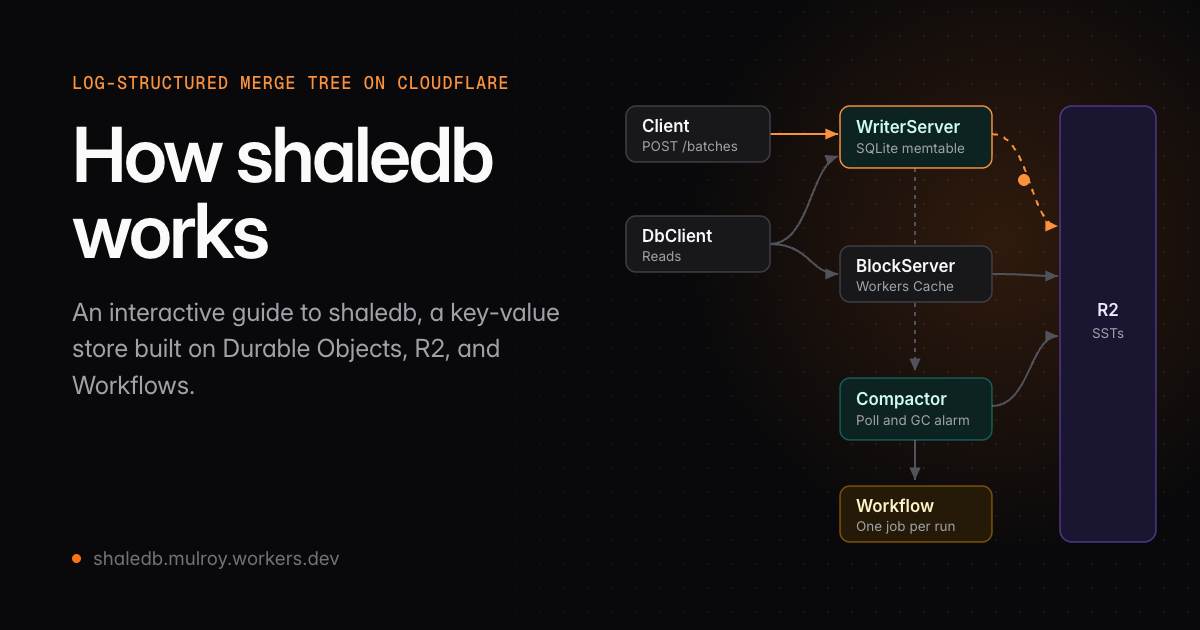
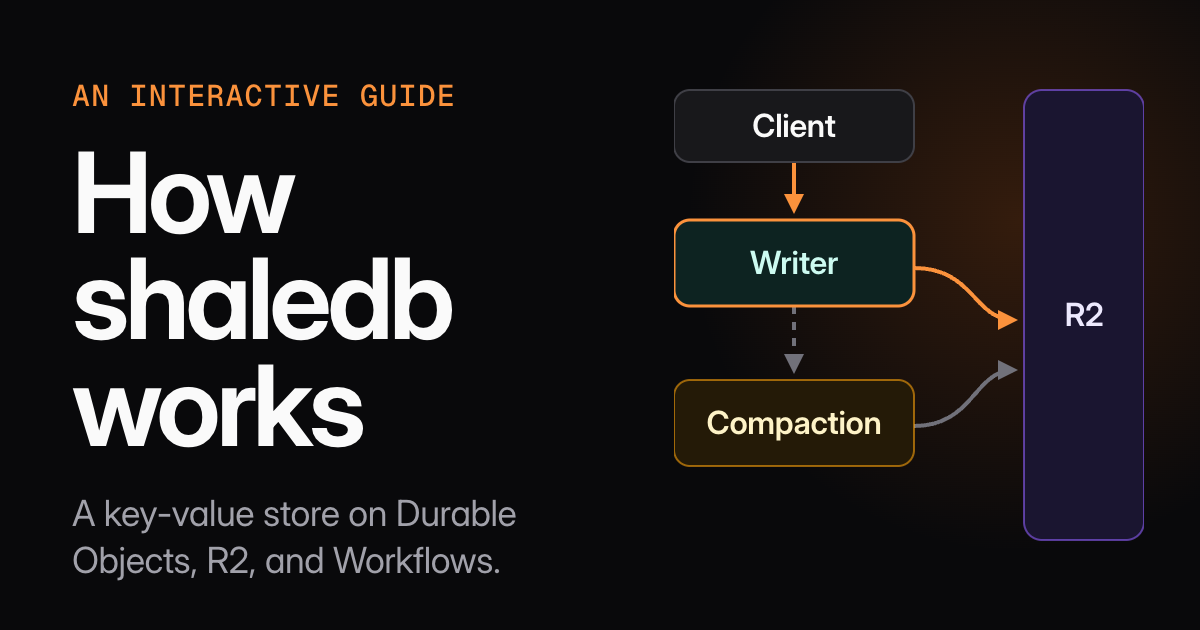
docs(site): OG image readable in phone link previews
Larger type (30px minimum, 112px title) and a four-box diagram, so the card reads at
about 350px wide.

diff --git a/infra/docs-site/og-card.html b/infra/docs-site/og-card.html
@@ -1,5 +1,9 @@
 <!doctype html>
-<!-- Source of public/og.png (1200x630). Rerender with: node render-og.mjs -->
+<!--
+  Source of public/og.png (1200x630). Rerender with: npx -y -p puppeteer@24 node render-og.mjs
+  Link previews on phones show this image about 350px wide, under a third of its size, so the
+  smallest text here is 30px (about 9px on a phone) and the diagram has only four boxes.
+-->
 <html lang="en">
   <head>
     <meta charset="utf-8" />
@@ -27,206 +31,142 @@
         position: relative;
         overflow: hidden;
       }
-      .grid {
-        position: absolute;
-        inset: 0;
-        background-image: radial-gradient(rgba(255, 255, 255, 0.07) 1px, transparent 1px);
-        background-size: 24px 24px;
-        mask-image: linear-gradient(to right, transparent 30%, black 75%);
-      }
       .glow {
         position: absolute;
-        right: -160px;
-        top: -120px;
-        width: 720px;
-        height: 720px;
-        background: radial-gradient(circle, rgba(249, 115, 22, 0.16), transparent 62%);
+        right: -200px;
+        top: -160px;
+        width: 760px;
+        height: 760px;
+        background: radial-gradient(circle, rgba(249, 115, 22, 0.18), transparent 62%);
       }
       .copy {
         position: absolute;
         left: 72px;
-        top: 72px;
-        width: 520px;
+        top: 76px;
+        width: 560px;
       }
       .eyebrow {
         font-family: "Geist Mono", monospace;
-        font-size: 17px;
-        letter-spacing: 0.06em;
+        font-size: 30px;
+        letter-spacing: 0.04em;
         text-transform: uppercase;
         color: #fb923c;
       }
       h1 {
-        margin-top: 22px;
-        font-size: 76px;
-        line-height: 1;
-        letter-spacing: -0.035em;
-        font-weight: 600;
+        margin-top: 24px;
+        font-size: 112px;
+        line-height: 0.95;
+        letter-spacing: -0.04em;
+        font-weight: 650;
       }
       p {
-        margin-top: 26px;
-        font-size: 25px;
-        line-height: 1.45;
+        margin-top: 32px;
+        font-size: 36px;
+        line-height: 1.3;
         color: #a1a1aa;
-        letter-spacing: -0.005em;
-      }
-      .foot {
-        position: absolute;
-        left: 72px;
-        bottom: 60px;
-        display: flex;
-        gap: 12px;
-        align-items: center;
-        font-size: 19px;
-        color: #71717a;
-      }
-      .dot {
-        width: 9px;
-        height: 9px;
-        border-radius: 99px;
-        background: #f97316;
+        letter-spacing: -0.01em;
       }
       svg {
         position: absolute;
-        right: 40px;
-        top: 76px;
-      }
-      .n rect {
-        stroke-width: 1.5;
+        right: 56px;
+        top: 70px;
       }
       .t {
         font:
-          600 17px "InterVariable",
+          600 32px "InterVariable",
           sans-serif;
-      }
-      .s {
-        font:
-          400 13.5px "InterVariable",
-          sans-serif;
-        fill: #a1a1aa;
+        letter-spacing: -0.01em;
       }
     </style>
   </head>
   <body>
-    <div class="grid"></div>
     <div class="glow"></div>
     <div class="copy">
-      <div class="eyebrow">Log-structured merge tree on Cloudflare</div>
+      <div class="eyebrow">An interactive guide</div>
       <h1>How shaledb works</h1>
-      <p>
-        An interactive guide to shaledb, a key-value store built on Durable Objects, R2, and
-        Workflows.
-      </p>
+      <p>A key-value store on Durable Objects, R2, and Workflows.</p>
     </div>
-    <div class="foot"><span class="dot"></span>shaledb.mulroy.workers.dev</div>
 
-    <svg width="540" height="480" viewBox="0 0 540 480">
+    <svg width="470" height="490" viewBox="0 0 470 490">
       <defs>
         <marker
           id="a"
           viewBox="0 0 10 10"
-          refX="9"
+          refX="8"
           refY="5"
-          markerWidth="7"
-          markerHeight="7"
+          markerWidth="5"
+          markerHeight="5"
           orient="auto"
         >
-          <path d="M0,1 L9,5 L0,9 z" fill="#52525b" />
+          <path d="M0,0 L10,5 L0,10 z" fill="#71717a" />
         </marker>
         <marker
           id="o"
           viewBox="0 0 10 10"
-          refX="9"
+          refX="8"
           refY="5"
-          markerWidth="7"
-          markerHeight="7"
+          markerWidth="5"
+          markerHeight="5"
           orient="auto"
         >
-          <path d="M0,1 L9,5 L0,9 z" fill="#fb923c" />
+          <path d="M0,0 L10,5 L0,10 z" fill="#fb923c" />
         </marker>
       </defs>
-      <!-- edges -->
-      <g fill="none" stroke-width="2">
-        <path d="M150,58 C185,58 185,58 218,58" stroke="#fb923c" marker-end="url(#o)" />
-        <path d="M150,168 C190,168 190,90 218,80" stroke="#52525b" marker-end="url(#a)" />
-        <path d="M150,168 C190,168 190,198 218,198" stroke="#52525b" marker-end="url(#a)" />
-        <path
-          d="M372,58 C410,58 410,150 438,150"
-          stroke="#fb923c"
-          stroke-dasharray="6 6"
-          marker-end="url(#o)"
-        />
-        <path d="M372,198 C410,198 410,200 438,200" stroke="#52525b" marker-end="url(#a)" />
-        <path d="M295,92 L295,295" stroke="#52525b" stroke-dasharray="4 5" marker-end="url(#a)" />
-        <path d="M372,330 C410,330 410,260 438,260" stroke="#52525b" marker-end="url(#a)" />
-        <path d="M295,364 L295,404" stroke="#52525b" marker-end="url(#a)" />
+      <g fill="none" stroke-width="4">
+        <path d="M120,92 L120,140" stroke="#fb923c" marker-end="url(#o)" />
+        <path d="M240,198 C300,198 300,250 340,250" stroke="#fb923c" marker-end="url(#o)" />
+        <path d="M120,236 L120,300" stroke="#71717a" stroke-dasharray="8 8" marker-end="url(#a)" />
+        <path d="M240,356 C300,356 300,300 340,300" stroke="#71717a" marker-end="url(#a)" />
       </g>
-      <!-- nodes -->
-      <g class="n">
-        <rect x="6" y="30" width="144" height="56" rx="10" fill="#18181b" stroke="#3f3f46" />
-        <text class="t" x="22" y="56" fill="#fafafa">Client</text>
-        <text class="s" x="22" y="75">POST /batches</text>
+      <rect
+        x="0"
+        y="20"
+        width="240"
+        height="72"
+        rx="16"
+        fill="#18181b"
+        stroke="#3f3f46"
+        stroke-width="2"
+      />
+      <text class="t" x="120" y="67" text-anchor="middle" fill="#fafafa">Client</text>
 
-        <rect x="6" y="140" width="144" height="56" rx="10" fill="#18181b" stroke="#3f3f46" />
-        <text class="t" x="22" y="166" fill="#fafafa">DbClient</text>
-        <text class="s" x="22" y="185">Reads</text>
+      <rect
+        x="0"
+        y="150"
+        width="240"
+        height="86"
+        rx="16"
+        fill="#0d2321"
+        stroke="#fb923c"
+        stroke-width="3"
+      />
+      <text class="t" x="120" y="204" text-anchor="middle" fill="#ccfbf1">Writer</text>
 
-        <rect
-          x="220"
-          y="30"
-          width="152"
-          height="62"
-          rx="10"
-          fill="#0d2321"
-          stroke="#fb923c"
-          stroke-width="2"
-        />
-        <text class="t" x="236" y="57" fill="#ccfbf1">WriterServer</text>
-        <text class="s" x="236" y="77">SQLite memtable</text>
+      <rect
+        x="0"
+        y="310"
+        width="240"
+        height="86"
+        rx="16"
+        fill="#241a07"
+        stroke="#f59e0b"
+        stroke-opacity="0.6"
+        stroke-width="2"
+      />
+      <text class="t" x="120" y="364" text-anchor="middle" fill="#fef3c7">Compaction</text>
 
-        <rect x="220" y="170" width="152" height="56" rx="10" fill="#18181b" stroke="#3f3f46" />
-        <text class="t" x="236" y="196" fill="#fafafa">BlockServer</text>
-        <text class="s" x="236" y="215">Workers Cache</text>
-
-        <rect
-          x="220"
-          y="302"
-          width="152"
-          height="62"
-          rx="10"
-          fill="#0d2321"
-          stroke="#14b8a6"
-          stroke-opacity="0.45"
-        />
-        <text class="t" x="236" y="329" fill="#ccfbf1">Compactor</text>
-        <text class="s" x="236" y="349">Poll and GC alarm</text>
-
-        <rect
-          x="220"
-          y="410"
-          width="152"
-          height="56"
-          rx="10"
-          fill="#241a07"
-          stroke="#f59e0b"
-          stroke-opacity="0.45"
-        />
-        <text class="t" x="236" y="436" fill="#fef3c7">Workflow</text>
-        <text class="s" x="236" y="455">One job per run</text>
-
-        <rect
-          x="440"
-          y="30"
-          width="96"
-          height="436"
-          rx="12"
-          fill="#1a1530"
-          stroke="#8b5cf6"
-          stroke-opacity="0.5"
-        />
-        <text class="t" x="488" y="240" text-anchor="middle" fill="#ede9fe">R2</text>
-        <text class="s" x="488" y="262" text-anchor="middle">SSTs</text>
-      </g>
-      <circle cx="404" cy="104" r="6" fill="#fb923c" />
+      <rect
+        x="350"
+        y="20"
+        width="120"
+        height="450"
+        rx="18"
+        fill="#1a1530"
+        stroke="#8b5cf6"
+        stroke-opacity="0.6"
+        stroke-width="2"
+      />
+      <text class="t" x="410" y="256" text-anchor="middle" fill="#ede9fe">R2</text>
     </svg>
   </body>
 </html>

diff --git a/docs/progress.md b/docs/progress.md
@@ -930,5 +930,7 @@ per Stack (Dillon's choice, D49); the §12 write, flush, and split measurements 
 - **Link previews.** The page has a description, Open Graph and Twitter tags, and a favicon.
   `infra/docs-site/public/og.png` (1200x630) is rendered from `og-card.html` with
   `npx -y -p puppeteer@24 node render-og.mjs`; `build` copies `public/` into `dist/`.
+  Phones show the card about 350px wide, so its smallest text is 30px (about 9px there) and
+  its diagram has four boxes.
 - `vp run ready` exit 0 (14 tasks). The first run failed when parallel test tasks raced to clear
   `node_modules/.vitest-cache`; the run after clearing it passed.
